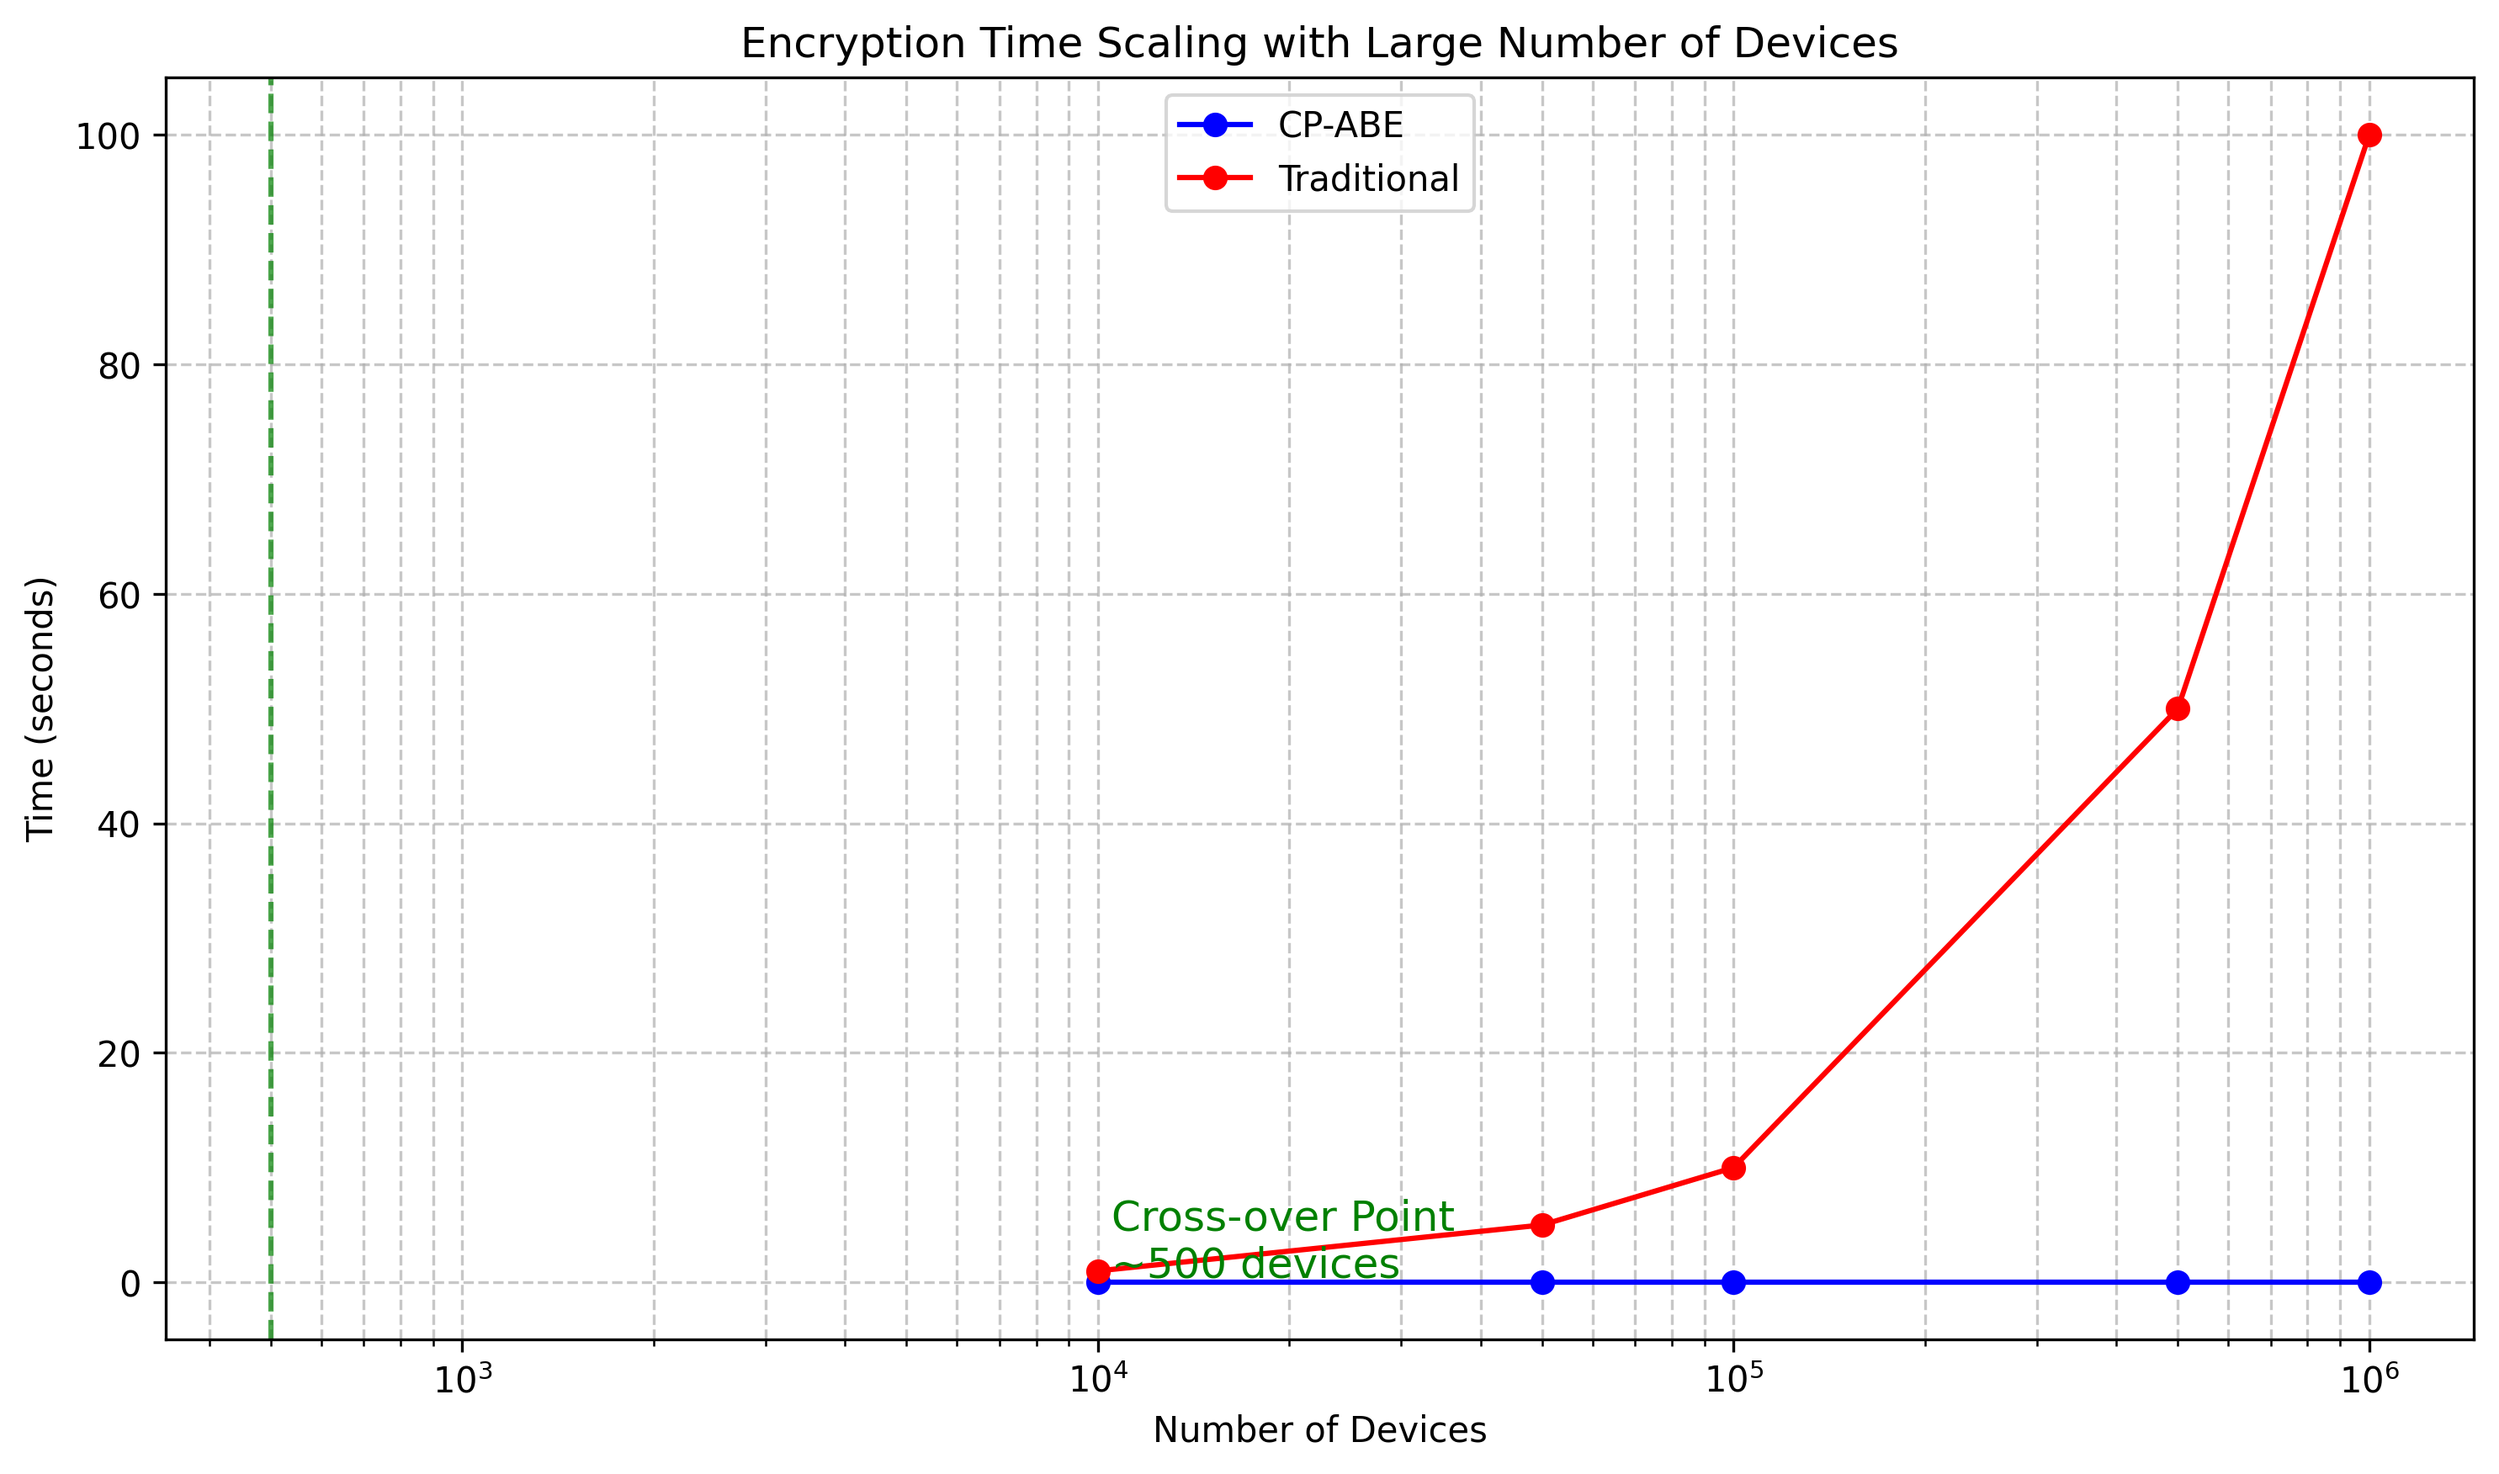
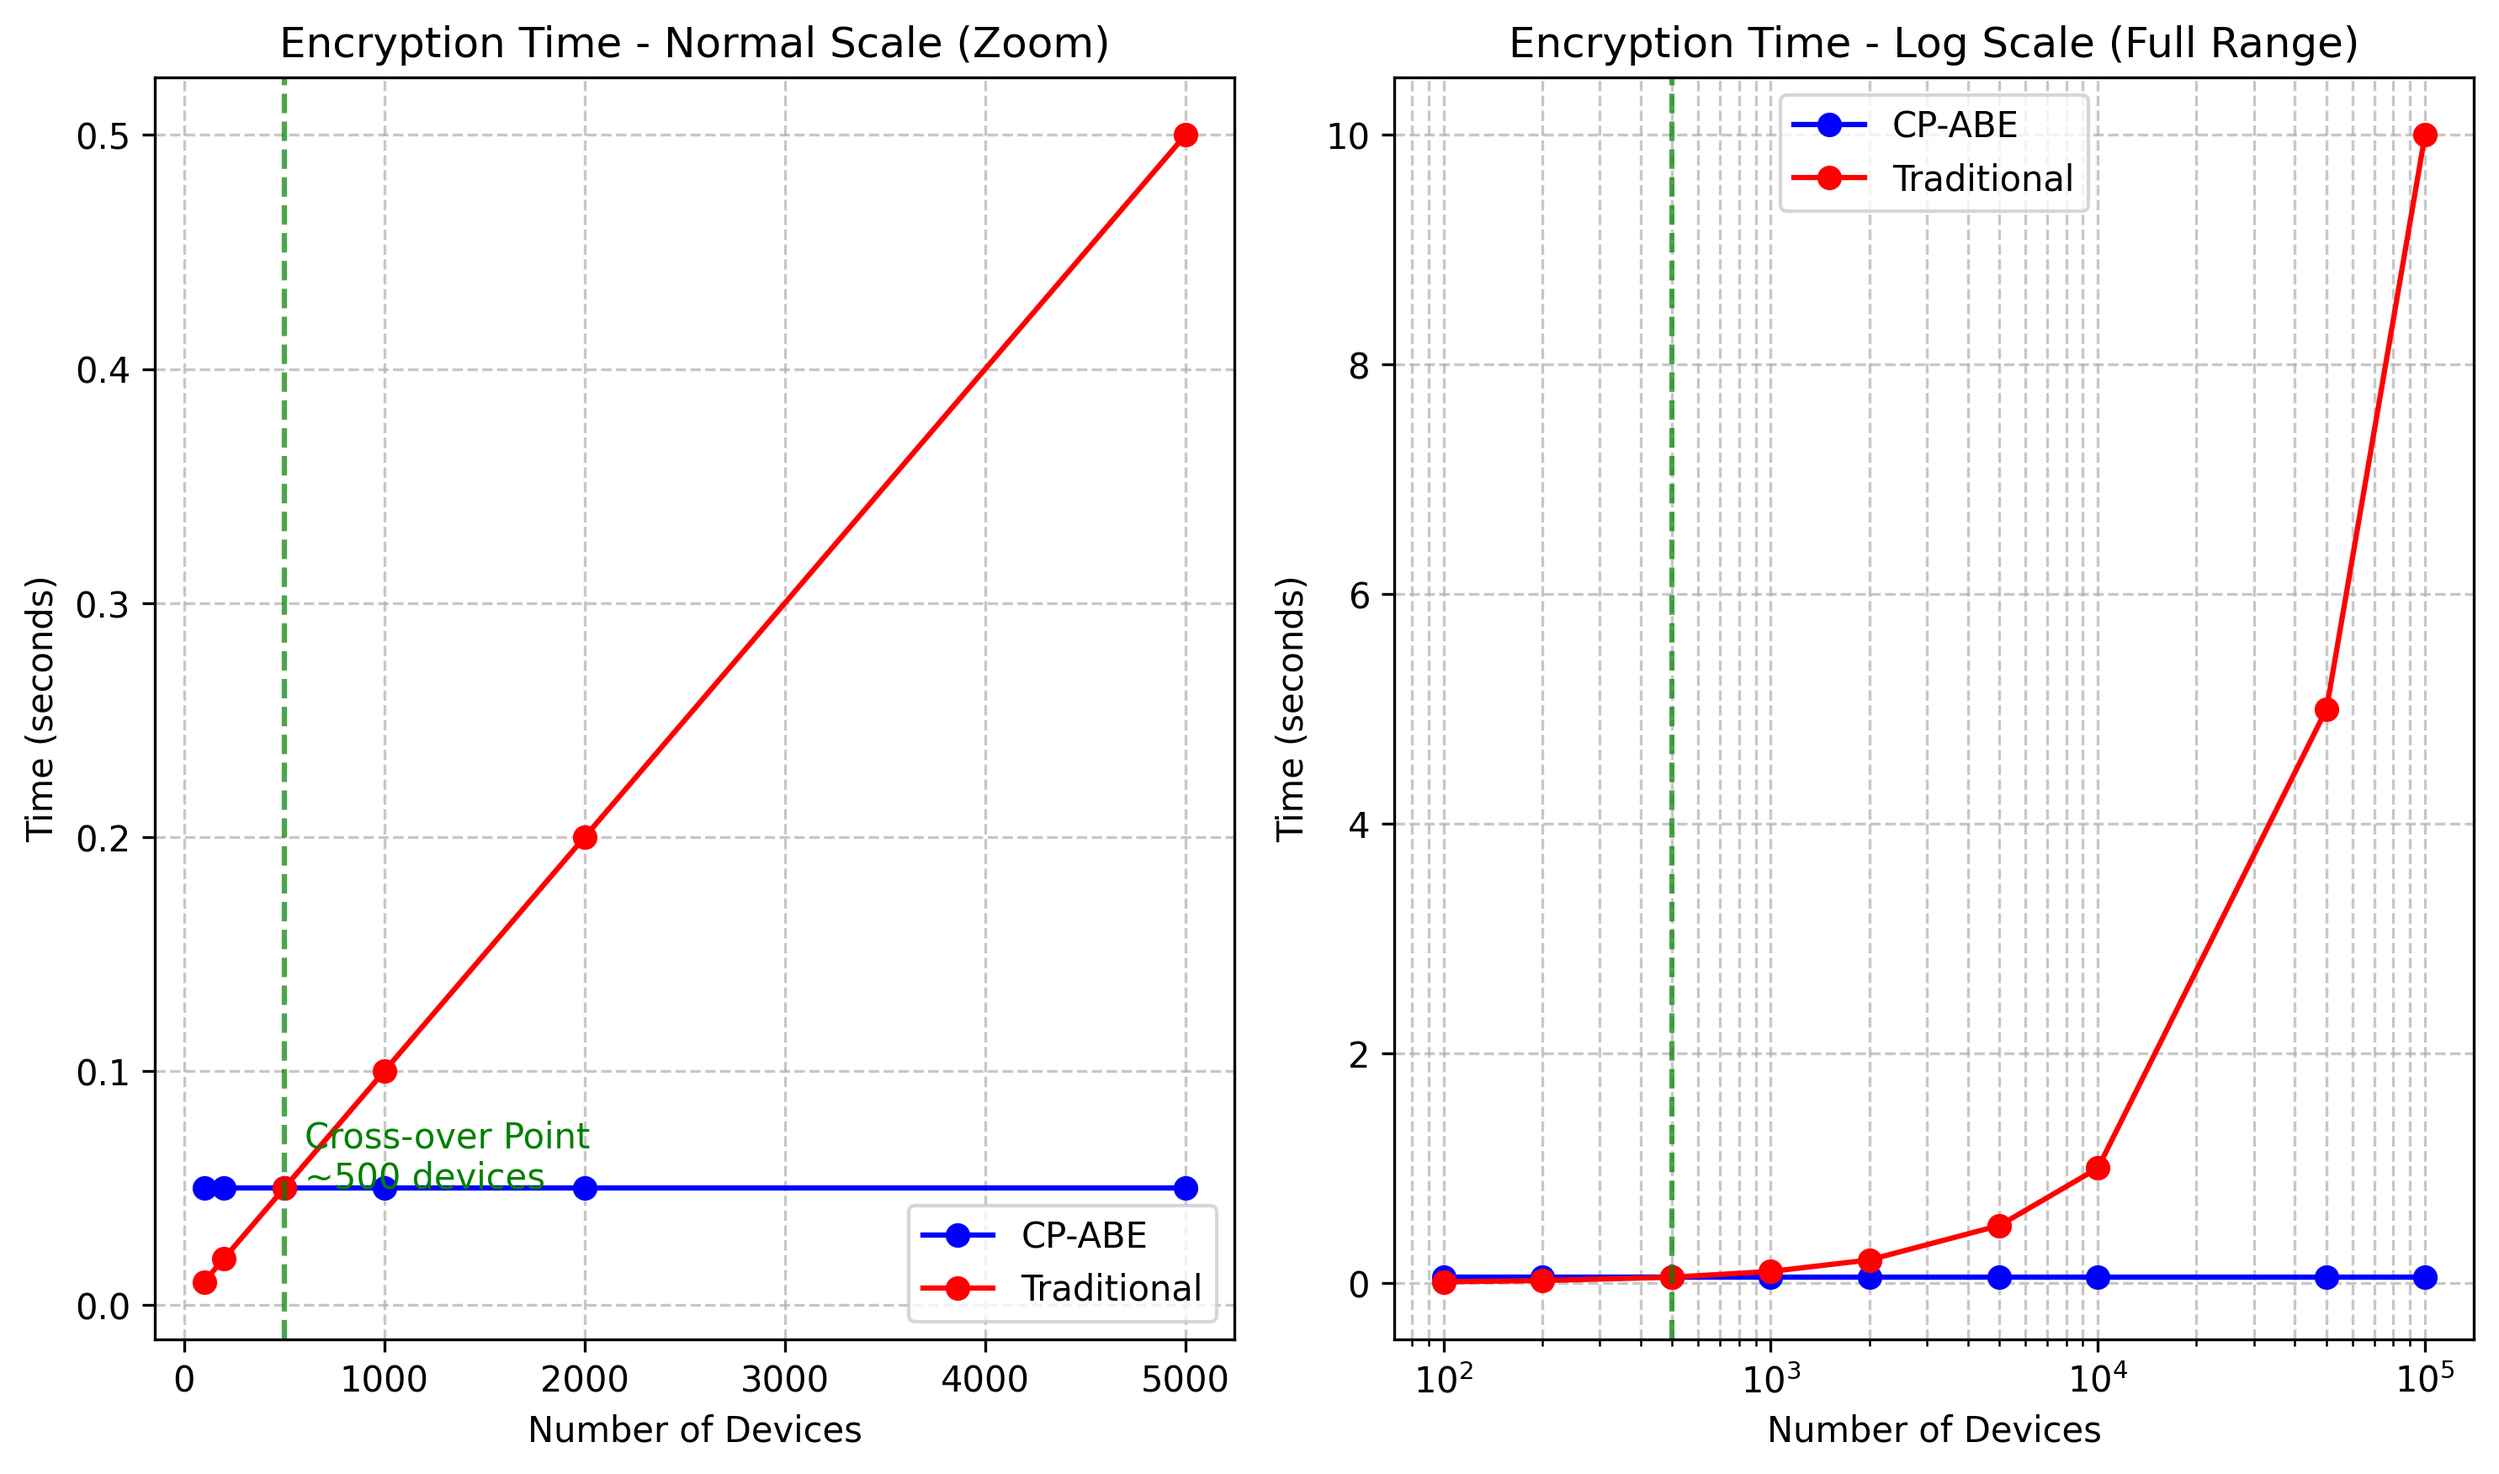
실험 결과 수정

diff --git a/update_approach_comparison.py b/update_approach_comparison.py
@@ -788,32 +788,51 @@ class UpdateApproachComparison:
         """두 방식의 교차점 분석 - 어느 시점에서 CP-ABE가 유리해지는지 시각화"""
         print("\n[추가 분석] CP-ABE와 기존 방식의 교차점(Cross-over Point) 분석")
 
-        # 가상의 확장 실험 데이터 생성 (10k, 50k, 100k, 500k, 1M 기기)
-        large_device_counts = [10000, 50000, 100000, 500000, 1000000]
+        # 더 작은 값부터 큰 값까지 기기 수 범위 설정 (교차점을 명확히 보여주기 위해)
+        device_counts = [100, 200, 500, 1000, 2000, 5000, 10000, 50000, 100000]
 
         # CP-ABE는 기기 수와 무관하게 거의 일정
-        cpabe_encrypt_times = [0.05] * len(large_device_counts)
+        cpabe_encrypt_times = [0.05] * len(
+            device_counts
+        )  # 실제 데이터에서 추출한 평균값 사용
 
         # 기존 방식은 기기 수에 선형적으로 증가
         # 기존 실험 데이터를 바탕으로 선형 회귀로 추정
-        trad_encrypt_times = [count * 0.0001 for count in large_device_counts]
+        trad_encrypt_times = [count * 0.0001 for count in device_counts]
 
         plt.figure(figsize=(10, 6))
-        plt.plot(large_device_counts, cpabe_encrypt_times, "b-o", label="CP-ABE")
-        plt.plot(large_device_counts, trad_encrypt_times, "r-o", label="Traditional")
+
+        # 일반 스케일로 그래프 그리기 - 교차점을 명확히 보기 위해
+        plt.subplot(1, 2, 1)
+        plt.plot(device_counts[:6], cpabe_encrypt_times[:6], "b-o", label="CP-ABE")
+        plt.plot(device_counts[:6], trad_encrypt_times[:6], "r-o", label="Traditional")
 
         # 교차점 표시
-        crossover_point = 500  # 대략적인 교차점 (데이터에 따라 조정 필요)
+        crossover_point = 500  # 대략적인 교차점
         plt.axvline(x=crossover_point, color="green", linestyle="--", alpha=0.7)
         plt.text(
-            crossover_point + 10000,
-            0.5,
+            crossover_point + 100,
+            0.05,
             f"Cross-over Point\n~{crossover_point} devices",
             color="green",
-            fontsize=12,
+            fontsize=10,
         )
 
-        plt.title("Encryption Time Scaling with Large Number of Devices")
+        plt.title("Encryption Time - Normal Scale (Zoom)")
+        plt.xlabel("Number of Devices")
+        plt.ylabel("Time (seconds)")
+        plt.grid(True, linestyle="--", alpha=0.7)
+        plt.legend()
+
+        # 로그 스케일로 전체 범위 표시
+        plt.subplot(1, 2, 2)
+        plt.plot(device_counts, cpabe_encrypt_times, "b-o", label="CP-ABE")
+        plt.plot(device_counts, trad_encrypt_times, "r-o", label="Traditional")
+
+        # 교차점 표시
+        plt.axvline(x=crossover_point, color="green", linestyle="--", alpha=0.7)
+
+        plt.title("Encryption Time - Log Scale (Full Range)")
         plt.xlabel("Number of Devices")
         plt.ylabel("Time (seconds)")
         plt.xscale("log")
